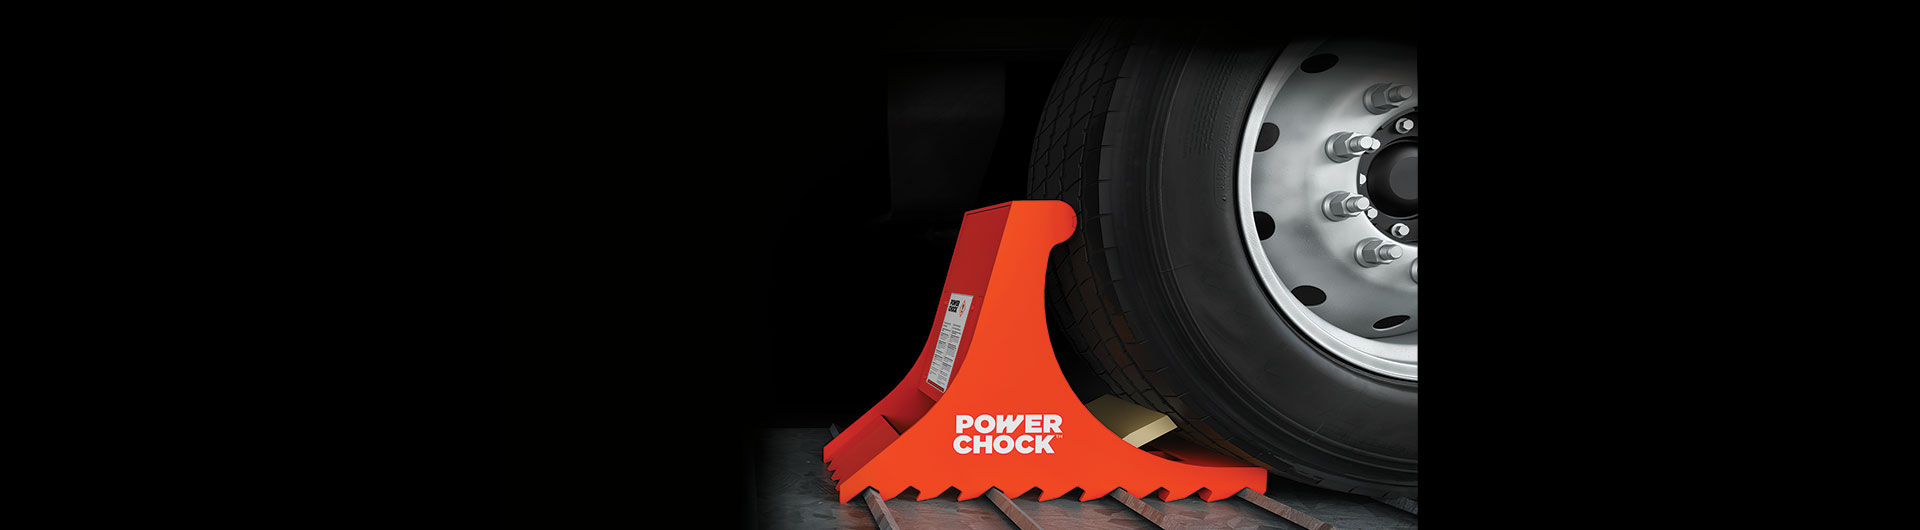
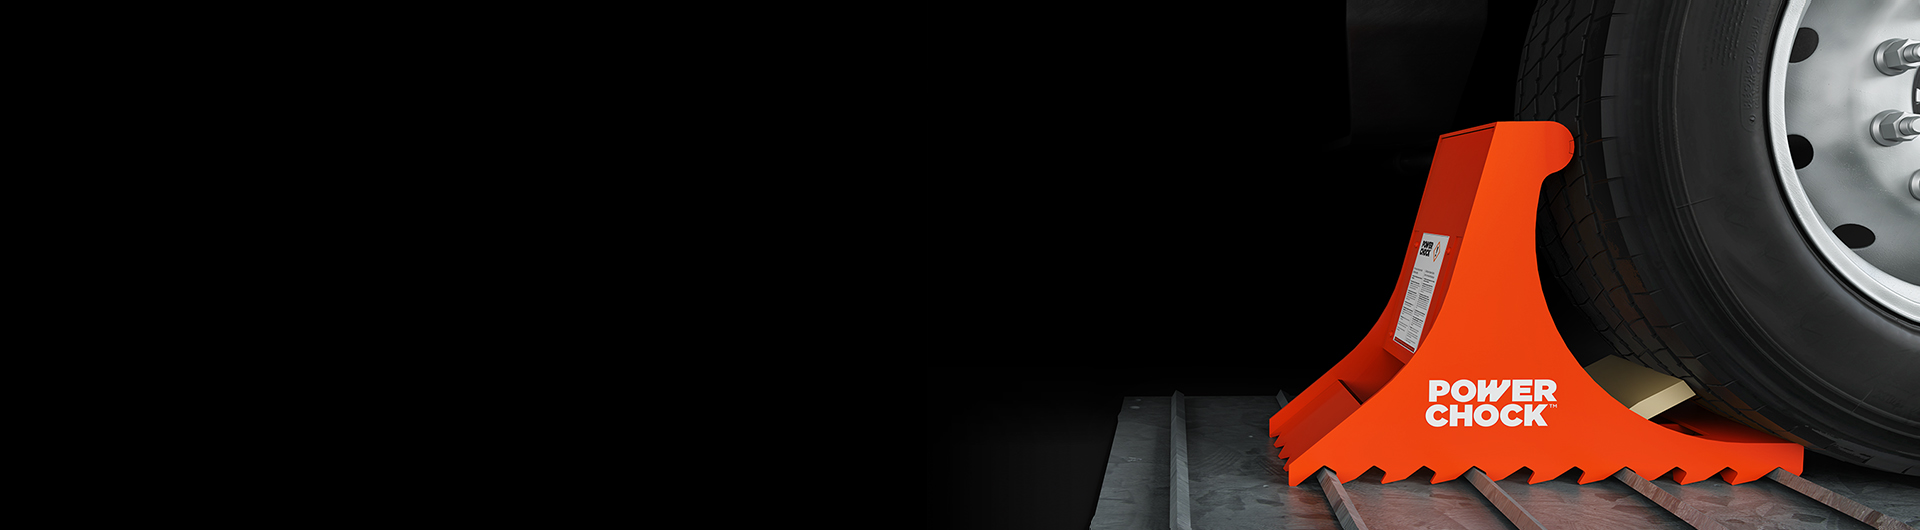
Ajustements clients
Changer header, refait la section SITL, autres ajstements divers

diff --git a/gmr.html b/gmr.html
@@ -409,21 +409,20 @@
 				</div>	   <!-- End container -->
 			</section>	<!-- END SERVICES-3 -->
 
-
-			<!-- PORTFOLIO-1
+			<!-- SITL PARIS-TITRE
 			============================================= -->
-			<section id="sitl-paris" class="bg-dark wide-40 portfolio-section division">
+			<section id="sitl-paris" class="bg-sitl wide-0 portfolio-section division">
 				<div class="container">
 
 
 			 		<!-- SECTION TITLE 	-->
-			 		<div class="row">
+			 		<div class="row sitl">
 			 			<div class="col section-title">
-			 				<div class="row section-row">
+			 				<div class="row section-row ">
 
 
 					 			<!-- SECTION TITLE TEXT	-->
-					 			<div class="col-md-12 col-lg-8 col-xl-7 section-title-txt">
+					 			<div class="col-md-12 col-lg-12 col-xl-12 section-title-txt">
 
 
 
@@ -449,25 +448,33 @@
 					 		</div>
 			 			</div>
 			 		</div>	<!-- END SECTION TITLE -->
+				</div>
+			</section>
+			
+
+			<!-- SITL PARIS-EQUIPE
+			============================================= -->
+			<section id="sitl-paris" class="bg-dark wide-30 portfolio-section division">
+				<div class="container">
 
 
-			 		<!-- Team-->
-			 		<div class="row">
+					<div class="row">
 
 
 						<!-- TEAM MEMBER #1 -->
 						<div class="col-md-6 col-lg-3">
 							<div class="team-member">
-
+														
 								<!-- Team Member Photo -->
 								<div class="team-member-photo">
 
 									<!-- Photo -->
-									<img class="img-fluid" src="images/silhouette.jpg" alt="team-member-foto">
+									<img class="img-fluid" src="images/melanie-di-pietro.jpg" alt="team-member-foto">
 
+									
 
 								</div>	<!-- End Team Member Photo -->
-
+																																				
 								<!-- Team Member Meta -->
 								<div class="team-img-meta">
 									<h4>Mélanie Di Pietro</h4>
@@ -486,23 +493,25 @@
 								</div>
 
 								</div>
-
-							</div>
+							
+							</div>									
 						</div>	<!-- END TEAM MEMBER #1 -->
-
-
+						
+						
 						<!-- TEAM MEMBER #2 -->
 						<div class="col-md-6 col-lg-3">
 							<div class="team-member">
-
+							
 								<!-- Team Member Photo -->
 								<div class="team-member-photo">
 
 									<!-- Photo -->
-									<img class="img-fluid" src="images/silhouette.jpg" alt="team-member-foto">
+									<img class="img-fluid" src="images/pierre-montagnon.jpg" alt="team-member-foto">
 
+									
+									
 								</div>	<!-- End Team Member Photo -->
-
+											
 								<!-- Team Member Meta -->
 								<div class="team-img-meta">
 									<h4>Pierre Montagnon</h4>
@@ -522,20 +531,10 @@
 
 								</div>
 
-							</div>
+							</div>											
 						</div>	<!-- END TEAM MEMBER #2 -->
-						<!-- photo kiosque -->
-						<div class="col-md-6 col-lg-6">
-							
-							<img src="images/kiosque.jpg" width="100%" style="margin-bottom: 20px;" />
-							<p class="p-lg"><strong>Ou passez nous rencontrer au kiosque P057</strong></p>
-							
-						</div>
-
-					</div>	    <!-- End row -->
-					<div class="row">
-
-
+						
+						
 						<!-- TEAM MEMBER #3 -->
 						<div class="col-md-6 col-lg-3">
 							<div class="team-member">
@@ -544,11 +543,12 @@
 								<div class="team-member-photo">
 
 									<!-- Photo -->
-									<img class="img-fluid" src="images/silhouette.jpg" alt="team-member-foto">
+									<img class="img-fluid" src="images/vincent-tremouilhe.jpg" alt="team-member-foto">
 
-
+									
+									
 								</div>	<!-- End Team Member Photo -->
-
+																		
 								<!-- Team Member Meta -->
 								<div class="team-img-meta">
 									<h4>Vincent Tremouilhe</h4>
@@ -569,10 +569,10 @@
 
 								</div>
 
-							</div>
+							</div>	
 						</div>	<!-- END TEAM MEMBER #3 -->
-
-
+											
+						
 						<!-- TEAM MEMBER #4 -->
 						<div class="col-md-6 col-lg-3">
 							<div class="team-member">
@@ -581,28 +581,12 @@
 								<div class="team-member-photo">
 
 									<!-- Photo -->
-									<img class="img-fluid" src="images/silhouette.jpg" alt="team-member-foto">
+									<img class="img-fluid" src="images/serge-carreau-temp.jpg" alt="team-member-foto">
 
-								</div>
-
-									<!-- Project Description -->
-									<div class="project-description">
-
-										<!-- Project Title -->
-										<h4 class="h4-lg">Billboard Poster MockUp</h4>
-
-										<!-- Project Meta -->
-										<span>November 14, 2017 in UI/UX Design</span>
-
-									</div>
-
-									<!-- Project Link -->
-									<div class="project-link">
-										<a href="single-project.html" class="btn btn-small btn-orange btn-arrow">
-											<span>More Details <i class="fa fa-long-arrow-right" aria-hidden="true"></i></span>
-										</a>
+									
+									
 								</div>	<!-- End Team Member Photo -->
-
+																		
 								<!-- Team Member Meta -->
 								<div class="team-img-meta">
 									<h4>Serge Carreau</h4>
@@ -622,14 +606,11 @@
 								</div>
 
 								</div>
-
 							</div>
 						</div>	<!-- END TEAM MEMBER #4 -->
 
 
 					</div>	    <!-- End row -->
-
-
 
 
 			 	</div>	    <!-- End container -->
@@ -640,15 +621,15 @@
 
 			<!-- CLIENTS-1
 			============================================= -->
-			<div id="clients-1" class="bg-scroll bg-dark trabg4 clients-section division">
-				<div class="container lightgrey-color">
+			<div id="clients-1" class="bg-dark trabg4 clients-section division">
+				<div class="container lightgrey-color m-top-120">
 					<div class="row">
 						<div class="col-lg-12 text-center">
 
 							<!-- Title -->
-							<p class="p-lg m-bottom-40">L'ingéniosité PowerChock contribue au succès de nos partenaires à travers plus de 20 pays </p>
+							<h2 class="clients m-bottom-40">L'ingéniosité PowerChock contribue au succès de nos partenaires à travers plus de 20 pays </p>
 
-							<div class="row">
+							<div class="row wide-40">
 
 								<!-- BRAND LOGO IMAGE -->
 								<div class="col-sm-4 col-lg-2">
@@ -733,7 +714,7 @@
 
 						<div class="col-md-7 col-lg-7 col-xl-7">
 							<!-- Comment Form Inputs -->
-										<form name="contactform" class="contact-form row">
+										<form name="contactform" class="row contact-form">
 
 											<!-- Contact Form Input -->
 											<div id="post-message" class="col-md-6">

diff --git a/css/style.css b/css/style.css
@@ -69,6 +69,11 @@ body {
 .wide-30 { padding-top: 100px; padding-bottom: 30px; }
 .wide-45 { padding-top: 30px; padding-bottom: 0; }
 .wide-35 { padding-top: 30px; padding-bottom: 30px; }
+.wide-0 { padding-top: 100px; padding-bottom: 0; }
+.wide-sitl {
+	padding-top: 0;
+	padding-bottom: 40px;
+}
 
 /*------------------------------------------*/
 /*    Margin Top
@@ -251,6 +256,9 @@ body {
 .bg-yellow {background-color:  #ffec19; }
 .bg-firebrick { background-color: #b22222; }
 .bg-orange { background-color: #fc4513; }
+.bg-sitl {
+	background-color: #161616;
+}
 
 .trabg1 {
 	background-image: url(../images/tra-bg1.png);
@@ -265,7 +273,7 @@ body {
 }
 
 .trabg4 {
-	background-image: url(../images/world-map.png);
+	background: url(../images/gmr-powerchock-clients-bg.jpg) no-repeat center center;
 }
 
 .bg-dotted {
@@ -355,6 +363,10 @@ h2.h2-small {
 
 h2.h2-grm {
 	font-size: 1.5rem;
+}
+
+h2.clients {
+	font-size: 2rem;
 }
 
 h2 {
@@ -2747,7 +2759,14 @@ p.p-hero-medium {
 	color: #fff;
 }
 
+.bg-sitl h2, .bg-sitl h4 {
+	color: #fff;
+}
+
 .bg-dark p {
+	color: #fff;
+}
+.bg-sitl p {
 	color: #fff;
 }
 
@@ -3702,7 +3721,7 @@ p.p-hero-medium {
 #clients-1, 
 #clients-2 {
 	padding-top: 100px;
-	padding-bottom: 70px;
+	/*padding-bottom: 70px;*/
 }
 
 /*------------------------------------------*/
@@ -4678,6 +4697,12 @@ textarea {
 nav a#pull {  
     display: none;  
 } 
+
+.sitl {
+	background: #161616 url(../images/bg-titre-sitl.jpg) no-repeat center bottom;
+	padding-top: 100px;
+    padding-bottom: 10px;
+}
 
 .portable img:hover{
 	opacity: 0.5;
